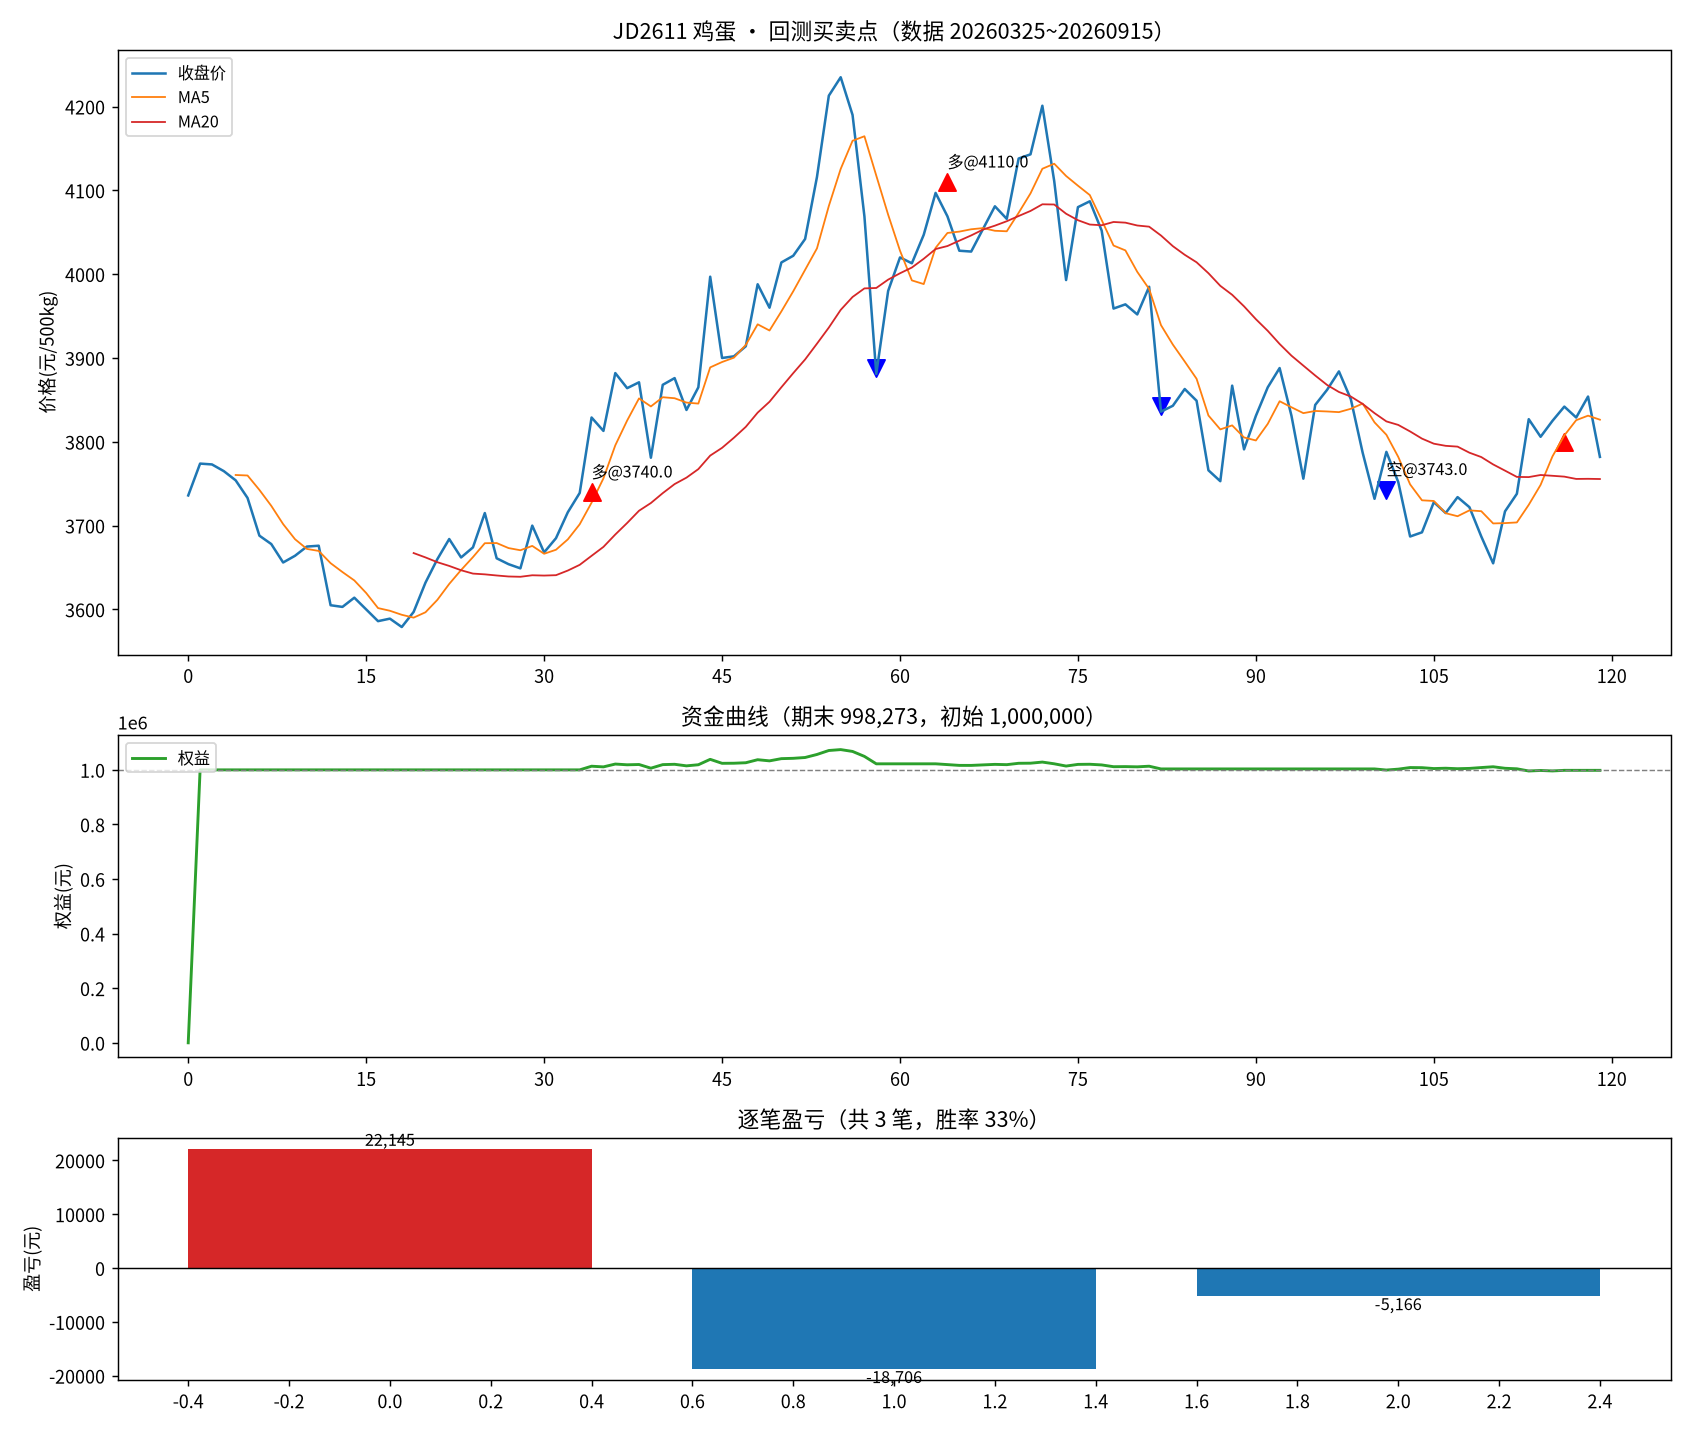
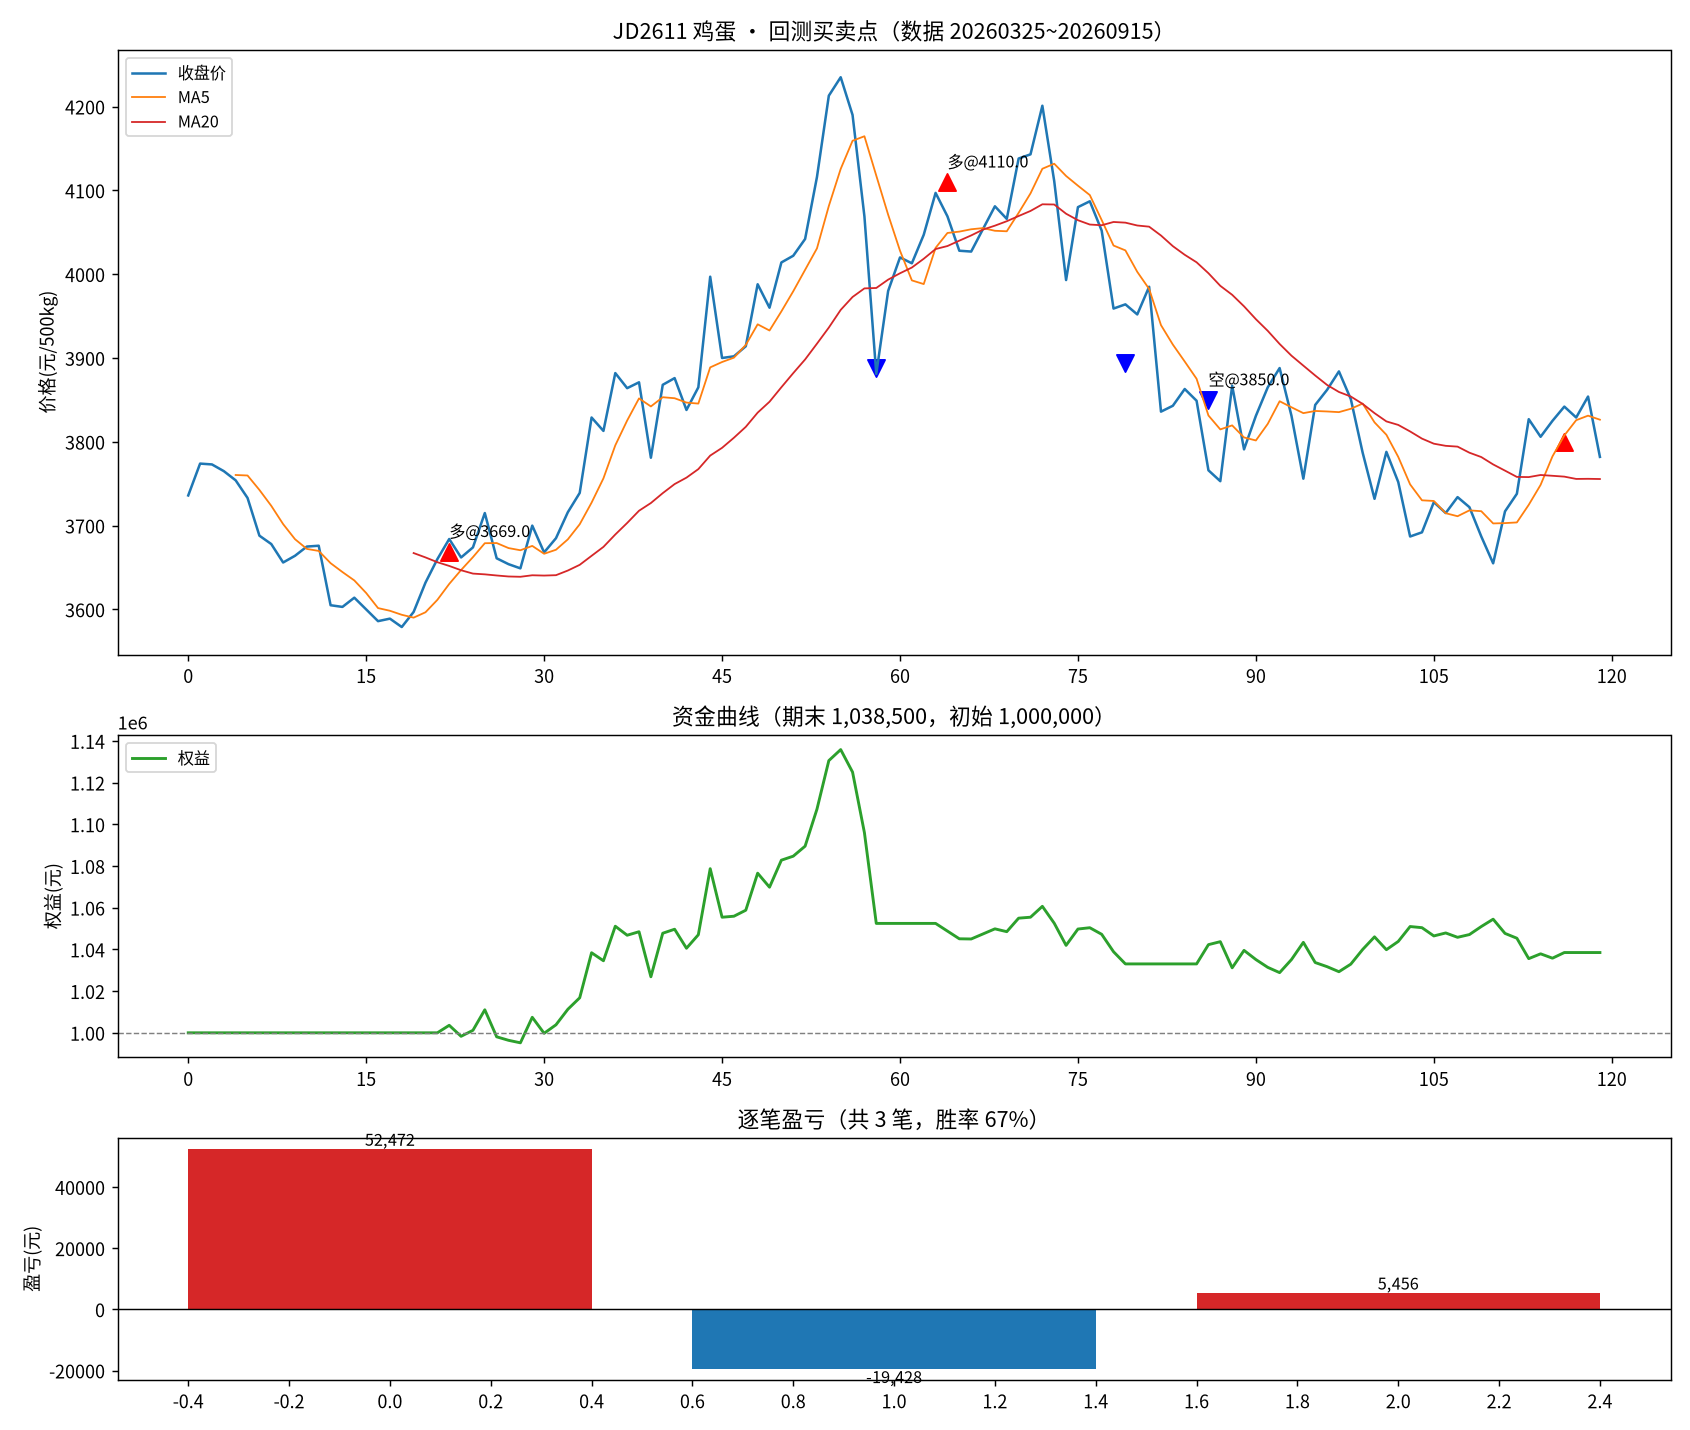
feat: 分析数据趋势

diff --git a/jd2611_quant/config.py b/jd2611_quant/config.py
@@ -20,20 +20,20 @@ MIN_LOTS = 1                  # 最小下单手数
 
 # ---------- 止损止盈 ----------
 ATR_PERIOD = 14
-ATR_STOP_MULT = 2.5     # 初始硬止损 = 开仓价 ± K*ATR（傅海棠：不扛单，铁律止损）
+ATR_STOP_MULT = 2.0     # 初始硬止损 = 开仓价 ± K*ATR（傅海棠：不扛单，铁律止损）
 TRAIL_STOP_ATR = 4.0    # 移动止损触发（看对拿住，跟踪大趋势；ATR 倍数）
 TRAIL_STOP_TRIGGER = 0.10  # 盈利达开仓价 10% 后启动移动止损
 
 # ---------- 技术信号参数 ----------
 MA_SHORT = 5
 MA_LONG = 20
-TREND_MA = 30           # 中周期趋势均线，用于趋势门控（顺大势）
+TREND_MA = 15           # 中周期趋势均线，用于趋势门控（顺大势）
 MACD_SHORT, MACD_LONG, MACD_MID = 12, 26, 9
 RSI_PERIOD = 6
 BOLL_PERIOD = 20
 BOLL_STD = 2.0
 VOL_WINDOW = 5          # 量能对比窗口
-SIGNAL_THRESHOLD = 4    # 多信号共振开仓阈值（满分约 10）
+SIGNAL_THRESHOLD = 3    # 多信号共振开仓阈值（满分约 10）
 
 # ---------- 傅海棠思考点 ----------
 # 「物极必反」：鸡蛋养殖成本参考锚点。价格显著跌破成本区且超卖时，赋予多头额外权重。
